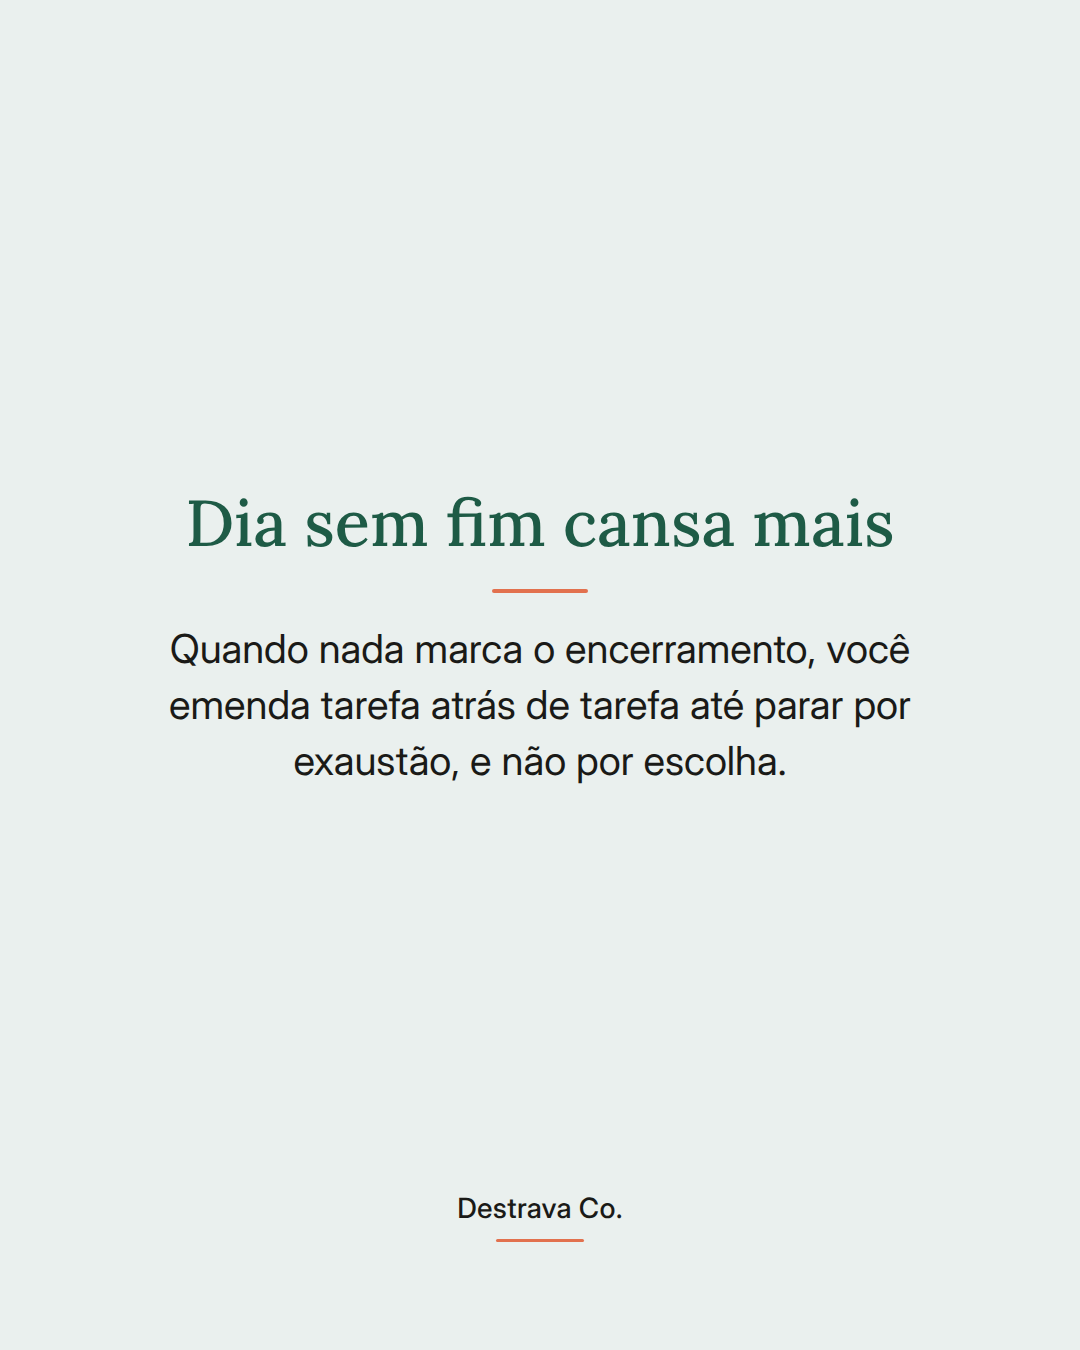
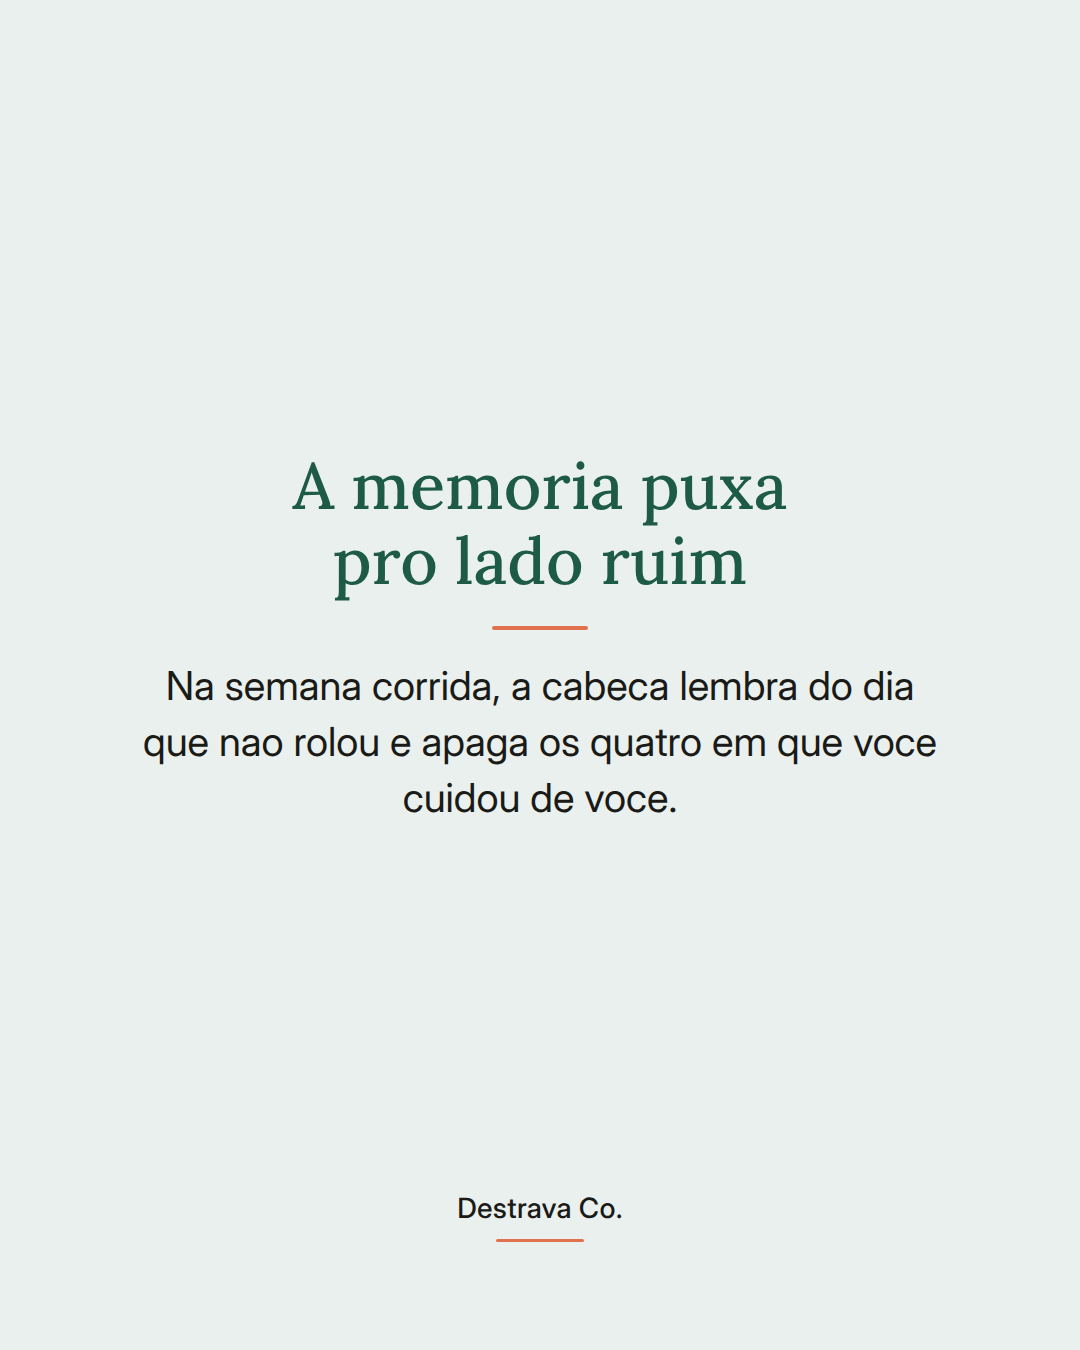
content: peças Instagram 2026_10_04

Changed region(s): [[0.1222, 0.3422, 0.8861, 0.6222]]

diff --git a/public/content/2026_10_04/index.html b/public/content/2026_10_04/index.html
@@ -19,24 +19,24 @@
 </head>
 <body>
 <h1>Corpo · capa B (wash3)</h1>
-<div class="meta">2026-10-04 · gerado em 2026-10-04T13:22:51 · sticker sugerido nos Stories: emoji slider</div>
+<div class="meta">2026-10-04 · gerado em 2026-10-04T18:55:37 · sticker sugerido nos Stories: emoji slider</div>
 <h2>Carrossel</h2>
-<div class="strip"><img src="2026_10_04_-_Carrossel_Corpo_01.png" alt="Lâmina com fundo wash3 da linha Corpo e título em campo dizendo que seu dia precisa de hora pra terminar." title="2026_10_04_-_Carrossel_Corpo_01.png"><img src="2026_10_04_-_Carrossel_Corpo_02.png" alt="Lâmina de fundo wash1 bem claro com título no campo profundo explicando que o dia sem fim cansa mais." title="2026_10_04_-_Carrossel_Corpo_02.png"><img src="2026_10_04_-_Carrossel_Corpo_03.png" alt="Lâmina de fundo wash1 bem claro com lista de três passos pra marcar o encerramento do dia." title="2026_10_04_-_Carrossel_Corpo_03.png"><img src="2026_10_04_-_Carrossel_Corpo_04.png" alt="Lâmina de fundo wash1 bem claro com título no campo profundo sobre a versão curta do encerramento em dias ruins." title="2026_10_04_-_Carrossel_Corpo_04.png"><img src="2026_10_04_-_Carrossel_Corpo_05.png" alt="Lâmina de fundo campo profundo com texto creme e botão no acento convidando a conhecer o Destrava 21." title="2026_10_04_-_Carrossel_Corpo_05.png"></div>
+<div class="strip"><img src="2026_10_04_-_Carrossel_Corpo_01.png" alt="Lamina de capa com fundo wash3 da linha Corpo e titulo em campo sobre a memoria guardar so o dia da falha." title="2026_10_04_-_Carrossel_Corpo_01.png"><img src="2026_10_04_-_Carrossel_Corpo_02.png" alt="Lamina de miolo com fundo wash1 bem claro e titulo no campo profundo explicando que a memoria guarda o dia ruim." title="2026_10_04_-_Carrossel_Corpo_02.png"><img src="2026_10_04_-_Carrossel_Corpo_03.png" alt="Lamina de miolo com fundo wash1 bem claro e lista de tres passos simples para registrar o habito." title="2026_10_04_-_Carrossel_Corpo_03.png"><img src="2026_10_04_-_Carrossel_Corpo_04.png" alt="Lamina de miolo com fundo wash1 bem claro e titulo no campo profundo sobre o dia em branco nao apagar o que foi feito." title="2026_10_04_-_Carrossel_Corpo_04.png"><img src="2026_10_04_-_Carrossel_Corpo_05.png" alt="Lamina de CTA com fundo campo profundo, texto creme e botao no acento convidando para o Destrava 21." title="2026_10_04_-_Carrossel_Corpo_05.png"></div>
 <h2>Stories</h2>
-<div class="strip"><img class="story" src="2026_10_04_-_Stories_Corpo_01.png" alt="Story com fundo wash3 da linha e título em campo convidando a deslizar pro feed." title="2026_10_04_-_Stories_Corpo_01.png"><img class="story" src="2026_10_04_-_Stories_Corpo_02.png" alt="Stories em fundo verde profundo apresentando o programa Destrava 21 Mulheres com o endereço da página em destaque no chip coral." title="2026_10_04_-_Stories_Corpo_02.png"></div>
+<div class="strip"><img class="story" src="2026_10_04_-_Stories_Corpo_01.png" alt="Lamina de Stories com fundo wash3 da linha Corpo e titulo em campo convidando a deslizar para o feed." title="2026_10_04_-_Stories_Corpo_01.png"><img class="story" src="2026_10_04_-_Stories_Corpo_02.png" alt="Stories em fundo verde profundo apresentando o programa Destrava 21 Mulheres com o endereço da página em destaque no chip coral." title="2026_10_04_-_Stories_Corpo_02.png"></div>
 <div class="meta">1º · stories post do dia · <a href="2026_10_04_-_Stories_Corpo_01.png" download="2026_10_04_-_Stories_Corpo_01.png">⬇ baixar</a> · sticker de link → post do dia (permalink em publicado.json depois de publicar) · sticker extra sugerido: emoji slider</div><div class="meta">2º · stories oferta · <a href="2026_10_04_-_Stories_Corpo_02.png" download="2026_10_04_-_Stories_Corpo_02.png">⬇ baixar</a> · sticker de link → <a href="https://destravaco.com.br/d21-mulheres-inicial/">https://destravaco.com.br/d21-mulheres-inicial/</a></div>
 <div class="meta">Stories não vão pela API: baixe e poste no app colando o sticker de link.</div>
 <h2>Legenda</h2>
-<pre>Energia no dia seguinte começa com uma hora pra encerrar o dia de hoje.
+<pre>Sua memoria guarda o dia em que voce falhou e apaga os dias em que deu certo.
 
-A gente combina horário pra tudo, menos pra parar. Aí o dia vai esticando, a noite vira o único espaço livre que sobrou e você acorda com a sensação de que não descansou de verdade.
+Constancia na rotina corrida fica mais facil quando existe um registro visivel do habito. Nao e aplicativo, nao e planilha: um papel na geladeira e um X no dia em que aconteceu.
 
-Encerrar é um hábito, igual a qualquer outro. Escolhe um horário, define uma última tarefa pequena e sempre igual, abaixa a luz. Seu corpo começa a entender que aquele sinal significa fim do expediente da casa.
+O ponto e o que voce marca. Marque o que fez, nunca o que faltou. Assim o papel vira memoria de apoio, e nao lista de cobranca.
 
-E nos dias em que der errado, não precisa abandonar: faz a versão de dois minutos e retoma amanhã. Constância é isso, voltar rápido.
+E quando aparece um espaco em branco, ele e so informacao. Os dias ja marcados continuam ali esperando voce voltar na proxima oportunidade.
 
-Salva pra lembrar hoje à noite e manda pra uma amiga que vive apagando a luz tarde. Se quiser montar essa rotina com apoio, o Destrava 21 te guia um passo por dia.
+Salva pra lembrar de comecar o seu registro hoje e manda pra uma amiga que anda achando que nao conseguiu nada essa semana. Se quiser seguir com um caminho organizado, o Destrava 21 te espera na bio.
 
-<span class="tags">#rotinacorrida #autocuidado #habitossaudaveis #constancia #bemestarfeminino</span></pre>
+<span class="tags">#constancia #habitossaudaveis #rotinacorrida #autocuidado #mulheresreais</span></pre>
 </body>
 </html>
